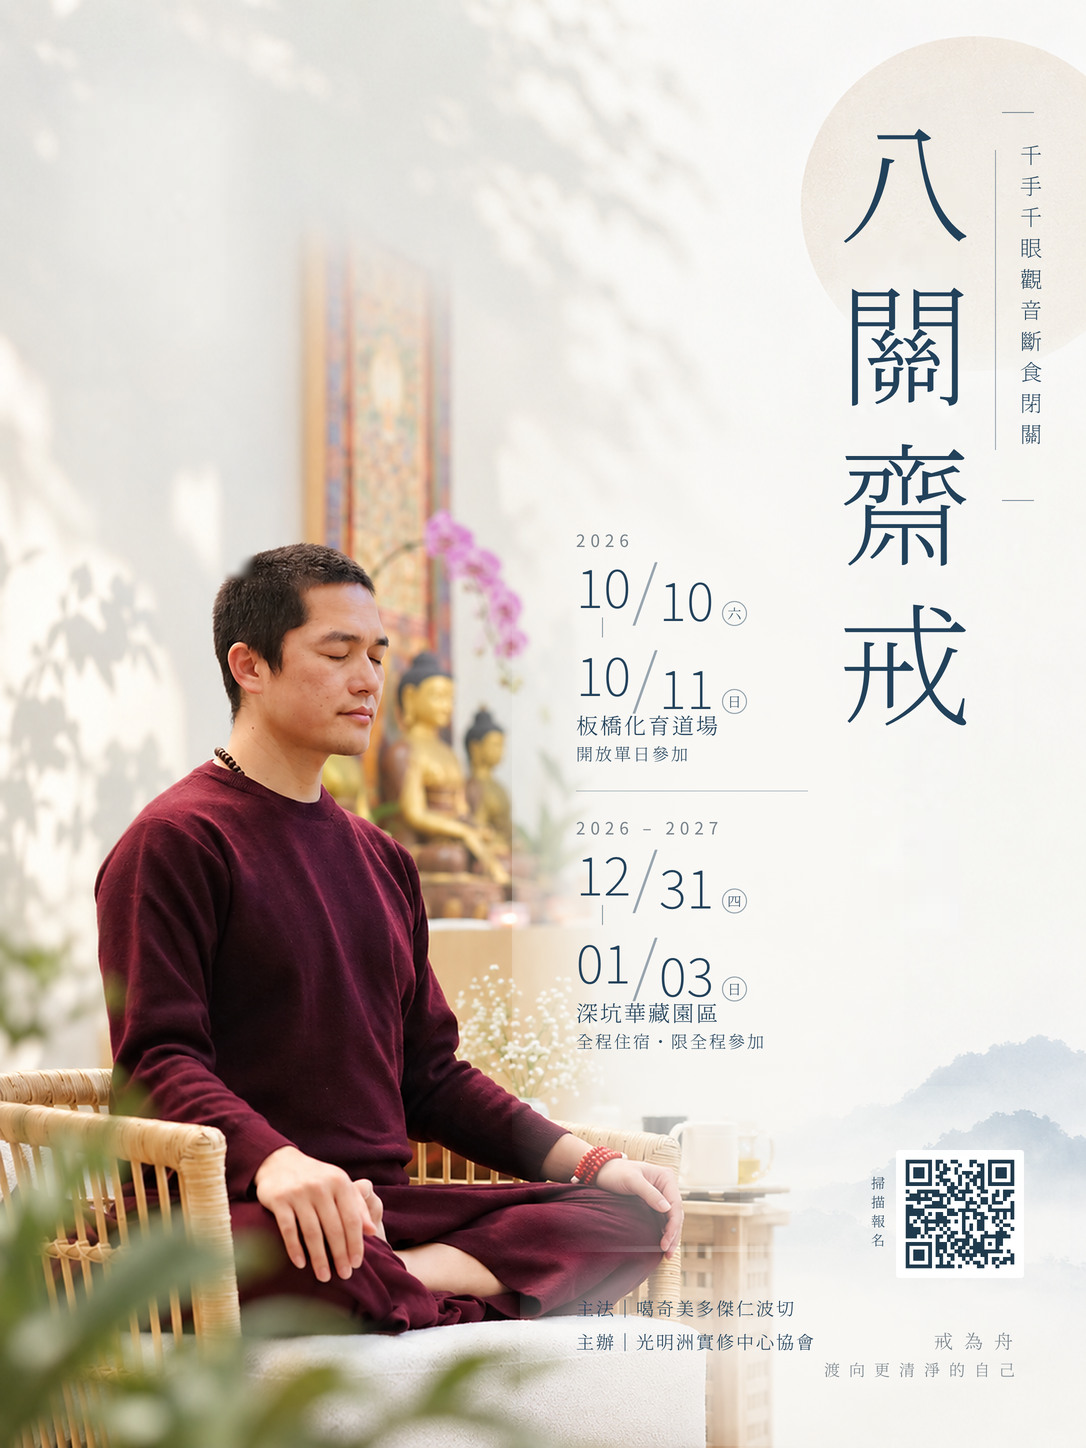
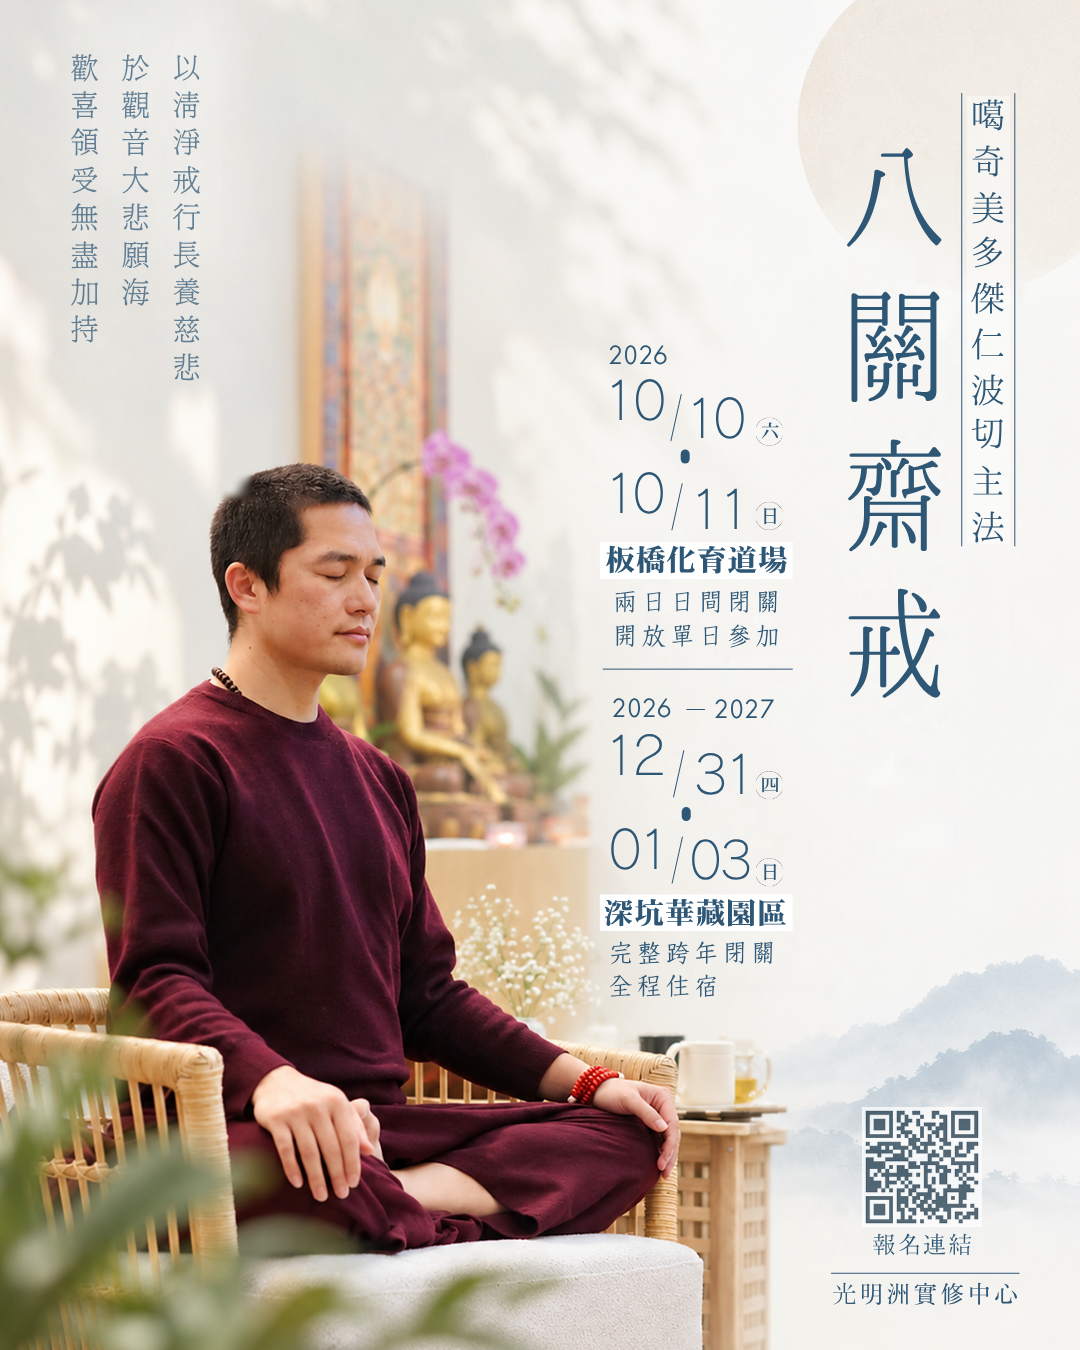
主視覺改用海報定稿，措辭比照海報，修掉圖片裁切
- index 的主視覺換成海報定稿整張（1080x1350），不再用裁切過的照片
- hero 一律 height:auto 整張顯示。原本用 object-fit:cover 加固定高度，
  在寬螢幕上一定會把人的身體裁掉，這條寫進 CSS 註解了
- 措辭改成與海報一致：兩日日間閉關／開放單日參加、完整跨年閉關／全程住宿、
  深坑華藏園區
- 拿掉先前自行加註的「不斷食斷水」，尼涅與紐涅的說明改回 Notion 原文

Claude-Session: https://claude.ai/code/session_01LPzBZaFdeaZQgcgE8nQwsz

diff --git a/index.html b/index.html
@@ -12,12 +12,8 @@
 </head>
 <body>
 
-<div class="hero">
-  <img src="assets/hero.jpg" alt="噶奇美多傑仁波切靜坐">
-  <div class="hero-txt">
-    <div class="t">八關齋戒</div>
-    <div class="s">千手千眼觀音修法</div>
-  </div>
+<div class="hero poster">
+  <img src="assets/poster.png" alt="八關齋戒｜噶奇美多傑仁波切主法。2026/10/10–10/11 板橋化育道場；2026/12/31–2027/01/03 深坑華藏園區。">
 </div>
 
 <div class="wrap">
@@ -35,7 +31,7 @@
         <h3>千手千眼觀音兩日八關齋戒</h3>
         <div class="when">10/10（六）– 10/11（日）</div>
         <div class="where">07:50 – 17:00　板橋化育道場</div>
-        <div class="cond">兩日整日修法・不過夜・可單日報名・隨喜護持</div>
+        <div class="cond">兩日日間閉關・開放單日參加・隨喜護持</div>
         <p><span class="status open">報名中</span></p>
         <p style="margin-top:18px"><a class="btn" href="october.html">查看詳情與報名</a></p>
       </div>
@@ -44,8 +40,8 @@
         <div class="tag">2027 新年．紐涅</div>
         <h3>千手千眼觀音斷食齋戒閉關</h3>
         <div class="when">12/31（四）– 01/03（日）</div>
-        <div class="where">12/31 17:00 入關 – 01/03 09:00 賦歸　深坑華藏教學園區</div>
-        <div class="cond">兩天兩夜斷食斷水・全程住宿・須全程參加・NT$2,000</div>
+        <div class="where">12/31 17:00 入關 – 01/03 09:00 賦歸　深坑華藏園區</div>
+        <div class="cond">完整跨年閉關・全程住宿・須全程參加・NT$2,000</div>
         <p><span class="status soon">敬請期待</span></p>
         <p style="margin-top:18px"><a class="btn ghost" href="newyear.html">查看詳情</a></p>
       </div>
@@ -57,8 +53,8 @@
     <h2>尼涅與紐涅的差別</h2>
     <p>藏傳佛教千手千眼觀音八關齋戒，因持守日數不同而分為兩種。</p>
     <table class="kv">
-      <tr><th>尼涅</th><td>一天一夜的齋戒。<b>不斷食斷水</b>，過午不食。本次秋季場為兩日整日修法，可單日參加。</td></tr>
-      <tr><th>紐涅</th><td>兩天兩夜的禁食齋戒。第一日過午不食，第二日<b>斷水斷食</b>，直到第三日清晨出關捨戒。本次新年場為此。</td></tr>
+      <tr><th>尼涅</th><td>一天一夜的齋戒。本次秋季場為兩日日間閉關，開放單日參加。</td></tr>
+      <tr><th>紐涅</th><td>兩天兩夜的禁食齋戒。第一日過午不食，第二日斷水斷食，直到第三日清晨出關捨戒。本次新年場為此。</td></tr>
     </table>
     <p class="muted">兩者所受戒律內容完全相同。紐涅是令弟子相續中生起大悲的極為善巧之法，清淨依止上師引導而修持者，往往能因此體驗餓鬼眾生之苦而發起真正的菩提大願。</p>
   </section>

diff --git a/october.html b/october.html
@@ -4,7 +4,7 @@
 <meta charset="utf-8">
 <meta name="viewport" content="width=device-width,initial-scale=1">
 <title>2026 秋季尼涅｜千手千眼觀音兩日八關齋戒</title>
-<meta name="description" content="2026/10/10–10/11 板橋化育道場。噶奇美多傑仁波切主法。兩日整日修法，可單日報名，隨喜護持。">
+<meta name="description" content="2026/10/10–10/11 板橋化育道場。噶奇美多傑仁波切主法。兩日日間閉關，開放單日參加，隨喜護持。">
 <link rel="preconnect" href="https://fonts.googleapis.com">
 <link rel="preconnect" href="https://fonts.gstatic.com" crossorigin>
 <link href="https://fonts.googleapis.com/css2?family=Noto+Serif+TC:wght@200;300;400&display=swap" rel="stylesheet">
@@ -30,13 +30,13 @@
       <tr><th>地點</th><td><a href="https://share.google/wvFINHBw8CG9qOMmK" target="_blank" rel="noopener">板橋化育道場</a><br>220 新北市板橋區四川路二段 16 巷 3 號 6 樓（領袖天下工業園區內）</td></tr>
       <tr><th>主法</th><td>噶奇美多傑仁波切</td></tr>
       <tr><th>費用</th><td>隨喜護持，不設固定金額（法本請購另計）</td></tr>
-      <tr><th>參加方式</th><td>兩日整日修法，<b>可單日報名</b>，不過夜</td></tr>
+      <tr><th>參加方式</th><td>兩日日間閉關，<b>開放單日參加</b></td></tr>
     </table>
 
     <p>今年雙十佳節，噶奇美多傑仁波切將帶領我們一起共修八關齋戒。此次法會除了歡迎有經驗的同學外，亦適合初次參加的法友，將透過仁波切的引導與補充資料，讓大家循序熟悉觀音本尊修法的內容。</p>
     <p>本次法會將於壇城設立<b>祈福</b>與<b>超薦</b>牌位，誠摯邀請法友們共襄盛舉，一同累積殊勝功德。</p>
 
-    <div class="note"><b>本次為「尼涅」，不斷食斷水。</b>兩天兩夜的禁食齋戒稱作「紐涅」（新年場），一天一夜的齋戒稱作「尼涅」。兩者所受戒律相同。</div>
+    
   </section>
 
   <section id="signup">

diff --git a/newyear.html b/newyear.html
@@ -26,10 +26,10 @@
 
     <table class="kv">
       <tr><th>日期</th><td>2026 年 12 月 31 日（四）17:00 入關<br>– 2027 年 1 月 3 日（日）09:00 賦歸</td></tr>
-      <tr><th>地點</th><td>華藏教學園區<br>新北市深坑區阿柔里 5 鄰大崙尾 9 號</td></tr>
+      <tr><th>地點</th><td>深坑華藏園區（華藏教學園區）<br>新北市深坑區阿柔里 5 鄰大崙尾 9 號</td></tr>
       <tr><th>主法</th><td>噶奇美多傑仁波切</td></tr>
       <tr><th>費用</th><td>NT$2,000（含四天三夜寮房住宿、閉關期間齋食、旅遊平安保險）</td></tr>
-      <tr><th>參加方式</th><td><b>須全程參加</b>，不開放單日；全程住宿於園區</td></tr>
+      <tr><th>參加方式</th><td>完整跨年閉關，<b>須全程參加</b>，全程住宿於園區</td></tr>
     </table>
 
     <p>今年跨年，噶奇美多傑仁波切將於深坑華藏教學園區，親自帶領大眾共修完整的千手千眼觀音八關齋戒（紐涅）。在一年的最後一夜入關，跨過新年，於 1/3 清晨圓滿出關，以斷食、禁語與觀音本尊的修持，清淨過去一年的身語意，帶著清明與悲心走進新的一年。</p>

diff --git a/style.css b/style.css
@@ -15,8 +15,11 @@ a{color:var(--navy)}
 .wrap{max-width:760px;margin:0 auto;padding:0 24px}
 
 /* 頁首 */
-.hero{position:relative;overflow:hidden}
-.hero img{width:100%;height:min(56vh,420px);object-fit:cover;object-position:22% 42%}
+.hero{position:relative;overflow:hidden;max-width:680px;margin:0 auto}
+/* 整張顯示，height:auto。用 cover＋固定高度會裁掉人的身體，不要那樣做 */
+.hero img{width:100%;height:auto}
+.hero.poster{max-width:760px}
+.hero.poster::after{display:none}
 .hero::after{content:"";position:absolute;inset:0;
   background:linear-gradient(to bottom,rgba(250,249,246,.18),rgba(250,249,246,.55) 62%,var(--paper))}
 .hero-txt{position:absolute;z-index:2;left:0;right:0;bottom:26px;text-align:center}
